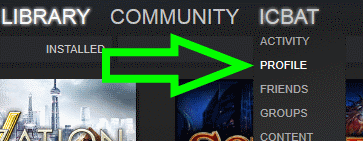
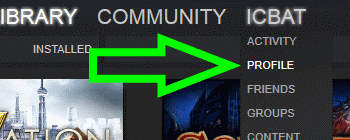
expanding the walkthrough of how to get your profile name

diff --git a/templates/landing.html b/templates/landing.html
@@ -9,13 +9,12 @@
 		name="steamid" />
 	<input type="submit" value="Go!"/>
 </form>
-{% raw %}
+
 <div class="explanation">
-Go to this page in Steam:<br/>
-
-<img src="/static/profile-walkthrough.png" alt="Open steam, click your username, click profile" /><br/>
-
-http://steamcommunity.com/id/[my_profile_name_here]
+	Go to this page in Steam:<br/>
+	<img src="/static/profile-walkthrough.png" alt="Open steam, click your username, click profile" /><br/><br/>
+	<img src="/static/profile-url.png" alt="Find the URL for your profile" /><br/>
+	Grab the profile name at the end:
+	<span class="muted">steamcommunity.com/id/</span>[my_profile_name_here]
 </div>
-{% endraw %}
 {% endblock %}

diff --git a/static/style.css b/static/style.css
@@ -31,6 +31,10 @@ a:hover {
 	margin-top: 20px;
 }
 
+.muted {
+	color:#aaa;
+}
+
 table {
 	background-color: #f33;
 }
